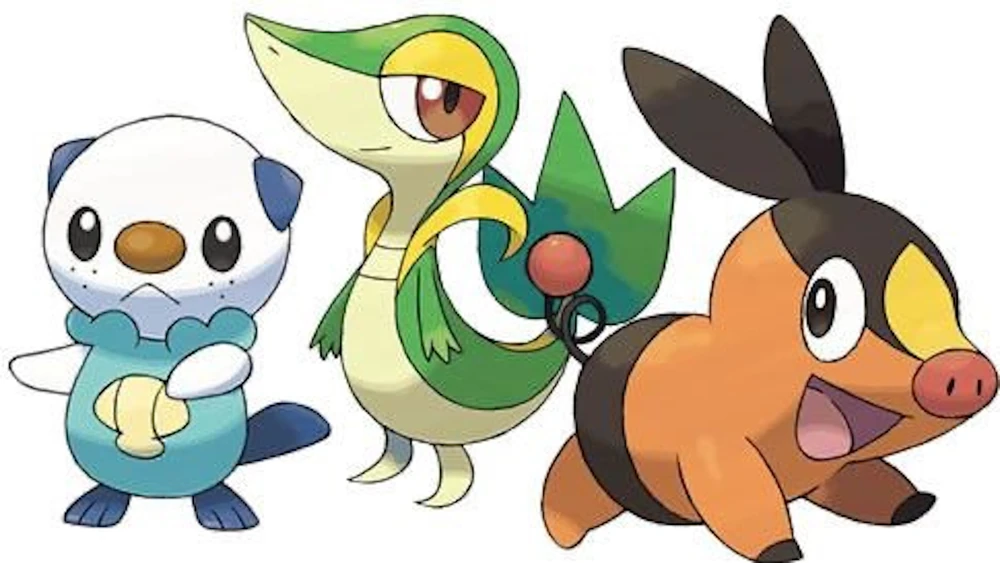
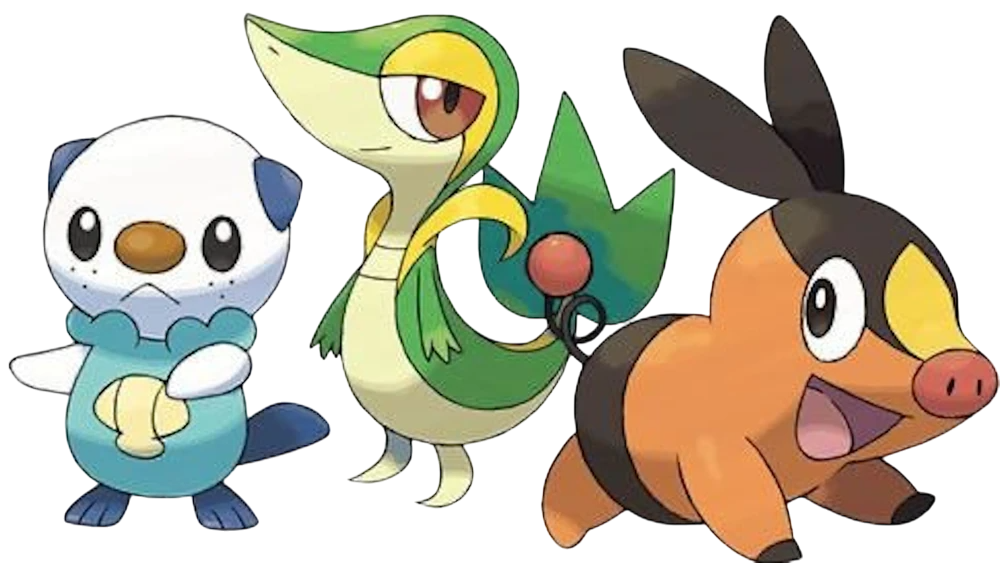
Styled region page, updated images to transparent backgrounds, refactored card in collection page

diff --git a/src/pages/GameSelect.jsx b/src/pages/GameSelect.jsx
@@ -11,12 +11,14 @@ const GameSelect = ({generationInfo, pages, setPage, setGameId}) => {
     }
 
   return (
-    <main className='page-container'>
-      <div className="page-header">
-        <h2>Select Regoin</h2>
+    <main className='page-container bg-pokemonRed/85 md:pb-16'>
+
+      <div className="page-header p-4">
+        <h2 className="text-3xl text-center">Select Regoin</h2>
       </div>
-      <div className='selection-container'>
-        <div className="selection-grid">
+
+      <div className='selection-container p-4 max-w-6xl m-auto'>
+        <div className="selection-grid flex flex-wrap gap-4">
           {generationInfo.map((gen) => {
             let prevCollectionPercent;
             
@@ -30,26 +32,30 @@ const GameSelect = ({generationInfo, pages, setPage, setGameId}) => {
 
             return (
               <div 
-                className='selection-card' 
+                className={`selection-card flex flex-col justify-center items-center gap-2 w-full p-4 
+                border-2 border-solid rounded-2xl shadow-xl/20 
+                sm:w-[calc(50%-0.5rem)] lg:w-[calc(33%-0.5rem)]
+                ${isPlayable ? 'bg-white cursor-pointer hover:border-blue-500 hover:rotate-[1deg] origin-right transition-transform duration-200 ' : 'cursor-not-allowed opacity-80 bg-[#6d6d6d]'}`}
+
                 key={gen.id} 
                 onClick={() => isPlayable ? handleRegionSelect(gen.id) : null}
               >
-                <div className="selection-card-title">
-                  <h3>{gen.regionName}</h3>
+                <div className="selection-card-title ">
+                  <h3 className="text-2xl">{gen.regionName}</h3>
                 </div>
 
-                <div className="selection-card-artwork">
-                  <img src={gen.artwork}/>
+                <div className="selection-card-artwork aspect-[4/3] w-full overflow-hidden">
+                  <img className="w-full h-full object-contain" src={gen.artwork}/>
                 </div>
 
                 {gen.id > 1 && prevCollectionPercent < .75 ?
-                  <p>
+                  <p className="px-2">
                     Collect 75% of previoous region to unlock
                   </p>
                   :
-                   <div className="selection-card-stats">
+                   <div className="selection-card-stats w-full flex flex-col items-center gap-2">
                   <p className='collected'>{gen.collected} / {gen.numPokemon}</p>
-                  <p className="percent-collected">{((gen.collected/gen.numPokemon) * 100).toFixed(0)}% collected</p>
+                  <p className="percent-collected">{((gen.collected/gen.numPokemon) * 100).toFixed(0)}% Collected</p>
                 </div>
                 }
               </div>

diff --git a/src/pages/CollectionSelect.jsx b/src/pages/CollectionSelect.jsx
@@ -25,8 +25,7 @@ const CollectionSelect = ({generationInfo, pages, setPage, setCollectionGenId}) 
 							return (
 								<div 
 									className='selection-card flex flex-col justify-center items-center gap-2 w-full p-4 border-solid border-2 cursor-pointer rounded-2xl shadow-xl/20 bg-[white] sm:w-[calc(50%-0.5rem)] lg:w-[calc(33%-0.5rem)]
-									hover:border-3 hover:rotate-1 origin-right transition-transform duration-200
-									' 
+									hover:border-blue-500 hover:rotate-[1deg] origin-right transition-transform duration-200 ' 
 									key={gen.id} 
 									onClick={() => handleCollectionSelect(gen.id)}
 								>
